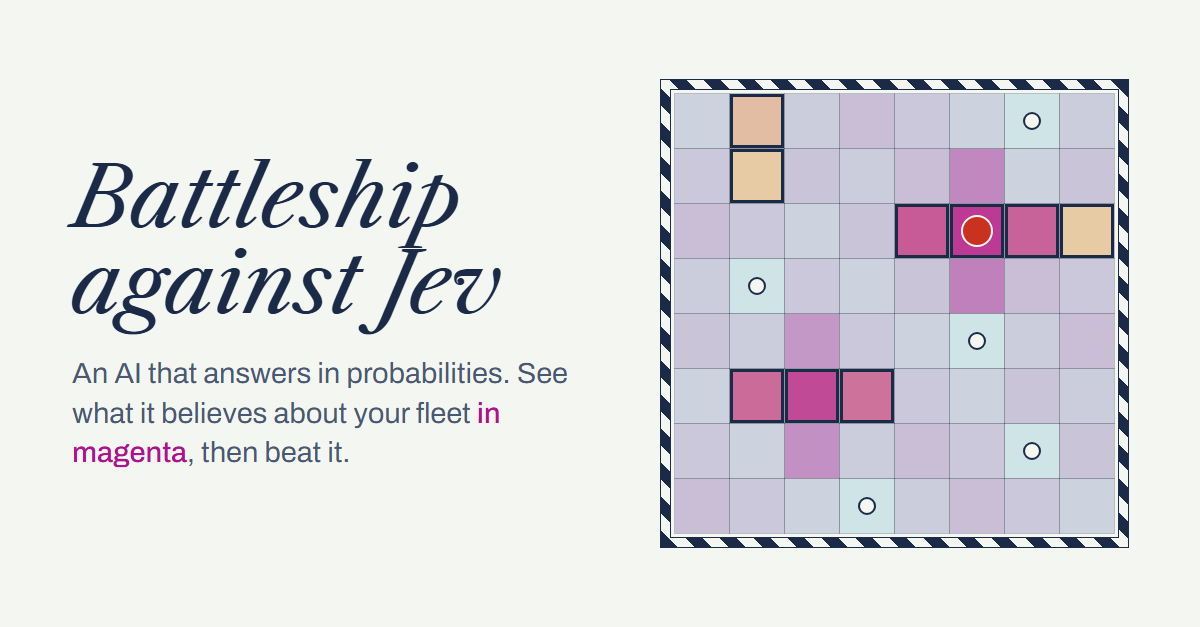
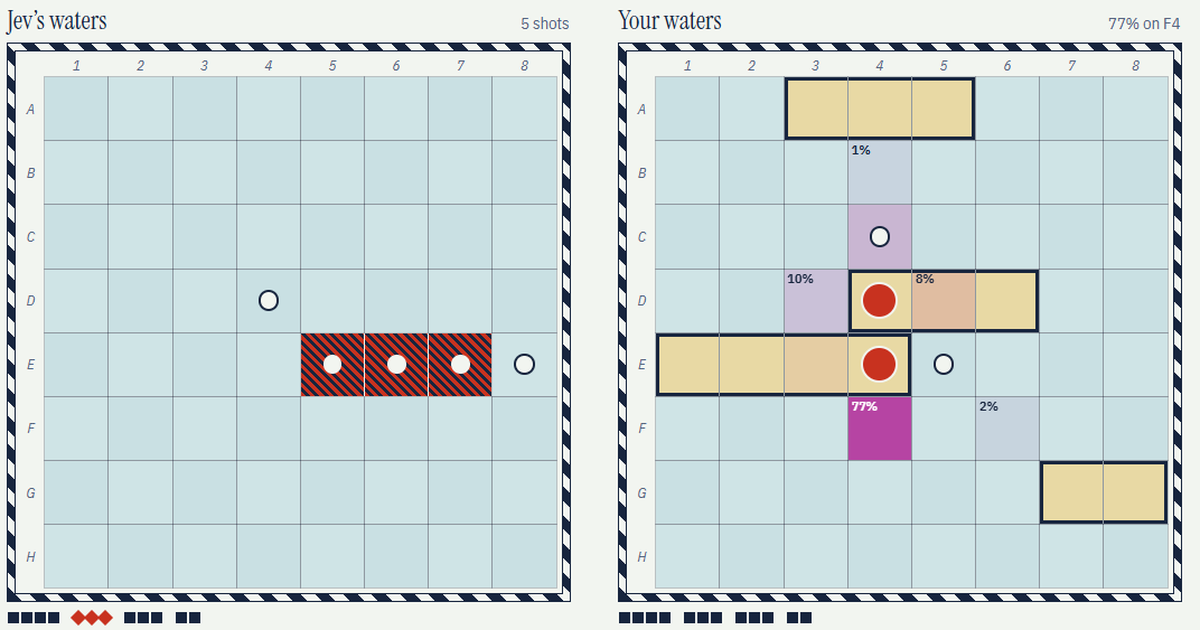
Redesign the game page and refresh its demo and link preview
Chart-style layout with Jev's telemetry, fewer words, and the turn by turn
view switch kept on narrow screens. New demo GIF and og.png from the live UI.

diff --git a/README.md b/README.md
@@ -105,6 +105,8 @@ and after comparison. The arena needs `AWS_BEARER_TOKEN_BEDROCK` for Claude on B
 
 ## Deploy
 
+[![Deploy with Vercel](https://vercel.com/button)](https://vercel.com/new/clone?repository-url=https://github.com/sah1l/jev-battleship&env=TYPESAFE_API_KEY&envDescription=Your%20TypeSafe%20AI%20key,%20used%20server%20side%20only)
+
 The game is a static page plus one serverless function, so any Vercel project works:
 
 ```
